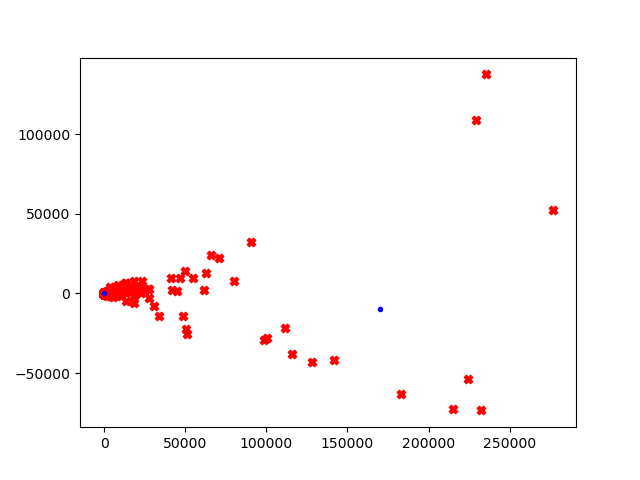
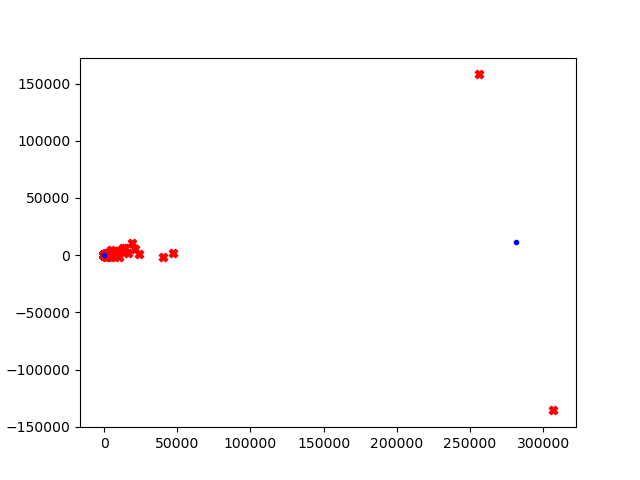
cluster suppplymented

diff --git a/cluster.py b/cluster.py
@@ -5,8 +5,8 @@ import matplotlib.pyplot as plt
 import pandas as pd
 from scipy import stats
 import numpy as np
-fpkm_tumor=pd.read_csv('./data/TCGA-LIHC.htseq_fpkm_tumor.tsv',sep='\t',index_col=0)
-fpkm_normal=pd.read_csv('./data/TCGA-LIHC.htseq_fpkm_normal.tsv',sep='\t',index_col=0)
+fpkm_tumor=pd.read_csv('./data/TCGA-LIHC.htseq_fpkm_tumor_filter.tsv',sep='\t',index_col=0)
+fpkm_normal=pd.read_csv('./data/TCGA-LIHC.htseq_fpkm_normal_filter.tsv',sep='\t',index_col=0)
 tumor_maxtrix=np.array(fpkm_tumor.values)
 normal_matrix=np.array(fpkm_normal.values)
 pca=PCA(n_components=2)
@@ -36,13 +36,24 @@ reduced_normal=pca.fit_transform(normal_matrix)
 # plt.show()
 
 clf=KMeans(n_clusters=2).fit(reduced_tumor)
-centers = clf.cluster_centers_
-plt.scatter(reduced_tumor[:,0],reduced_tumor[:,1],c='r',marker='X',label='tumor')
-plt.scatter(centers[:,0],centers[:,1],c='b',marker='.',label='centers')
-plt.show()
+# centers = clf.cluster_centers_
+# plt.scatter(reduced_tumor[:,0],reduced_tumor[:,1],c='r',marker='X',label='tumor')
+# plt.scatter(centers[:,0],centers[:,1],c='b',marker='.',label='centers')
+# plt.show()
+
+tumor_main_cluster=[]
+for i in range(len(clf.labels_)):
+    if clf.labels_[i]==0:
+        tumor_main_cluster.append(i)
+print(len(tumor_main_cluster))
 
 clf=KMeans(n_clusters=2).fit(reduced_normal)
-centers = clf.cluster_centers_
-plt.scatter(reduced_normal[:,0],reduced_normal[:,1],c='g',marker='X',label='normal')
-plt.scatter(centers[:,0],centers[:,1],c='r',marker='.',label='centers')
-plt.show()
+# centers = clf.cluster_centers_
+# plt.scatter(reduced_normal[:,0],reduced_normal[:,1],c='g',marker='X',label='normal')
+# plt.scatter(centers[:,0],centers[:,1],c='r',marker='.',label='centers')
+# plt.show()
+normal_main_cluster=[]
+for i in range(len(clf.labels_)):
+    if clf.labels_[i]==0:
+        normal_main_cluster.append(i)
+print(len(normal_main_cluster))
